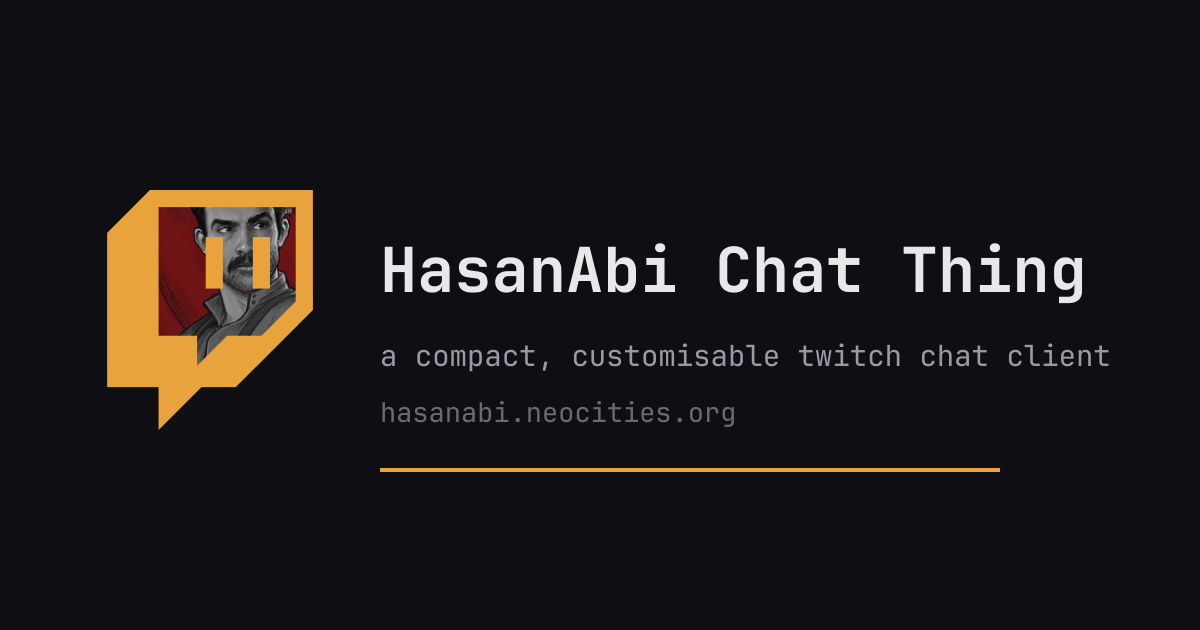
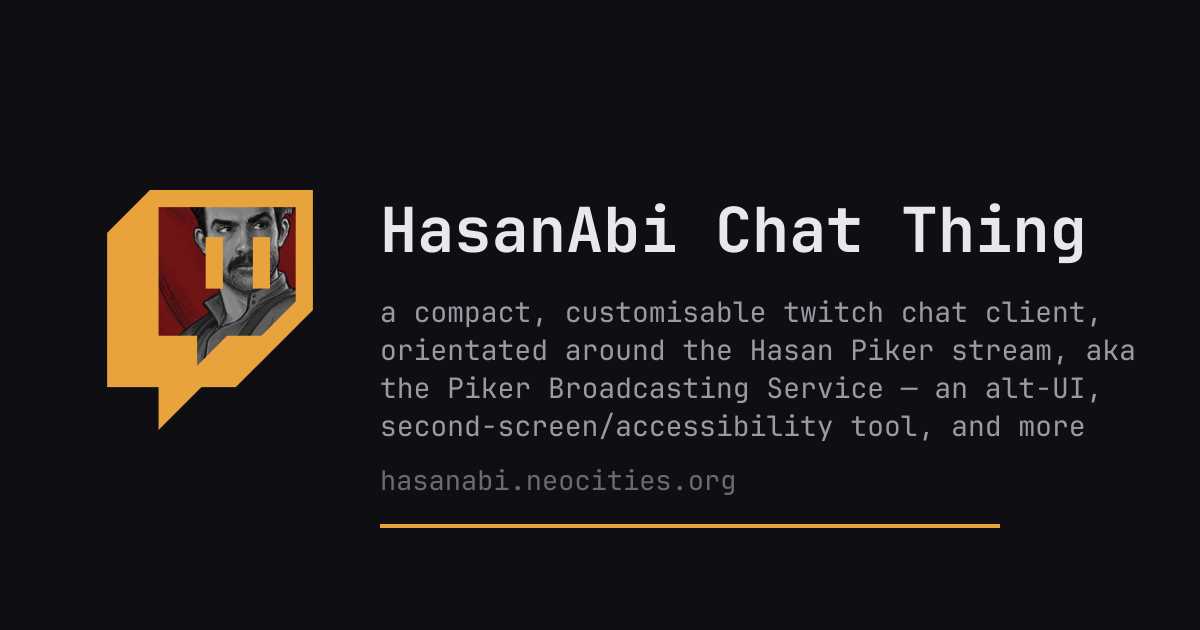
Carry the full description sentence on the preview card and readme

diff --git a/README.md b/README.md
@@ -1,7 +1,9 @@
 # HasanAbi Chat Thing
 
 A compact, customizable Twitch chat page for [HasanAbi](https://www.twitch.tv/hasanabi),
-hosted on Neocities. Live at <https://hasanabi.neocities.org/>.
+hosted on Neocities — orientated around the Hasan Piker stream, aka the
+Piker Broadcasting Service. An alt-UI, second-screen/accessibility tool,
+and more. Live at <https://hasanabi.neocities.org/>.
 
 The project comes in two parts: the frontend
 ([hasanabi.neocities.org](https://github.com/mxmilkiib/hasanabi.neocities.org),
